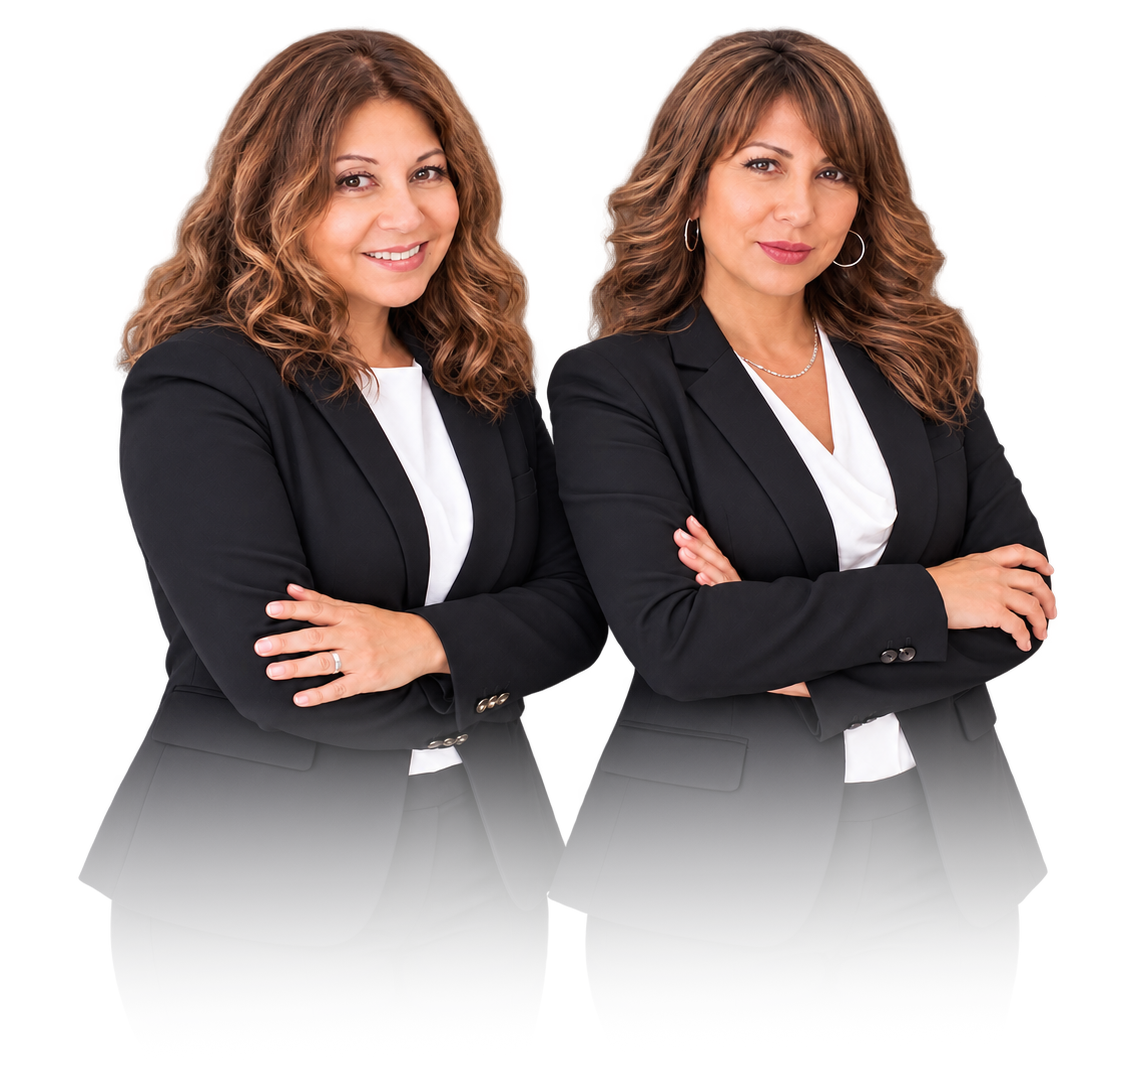
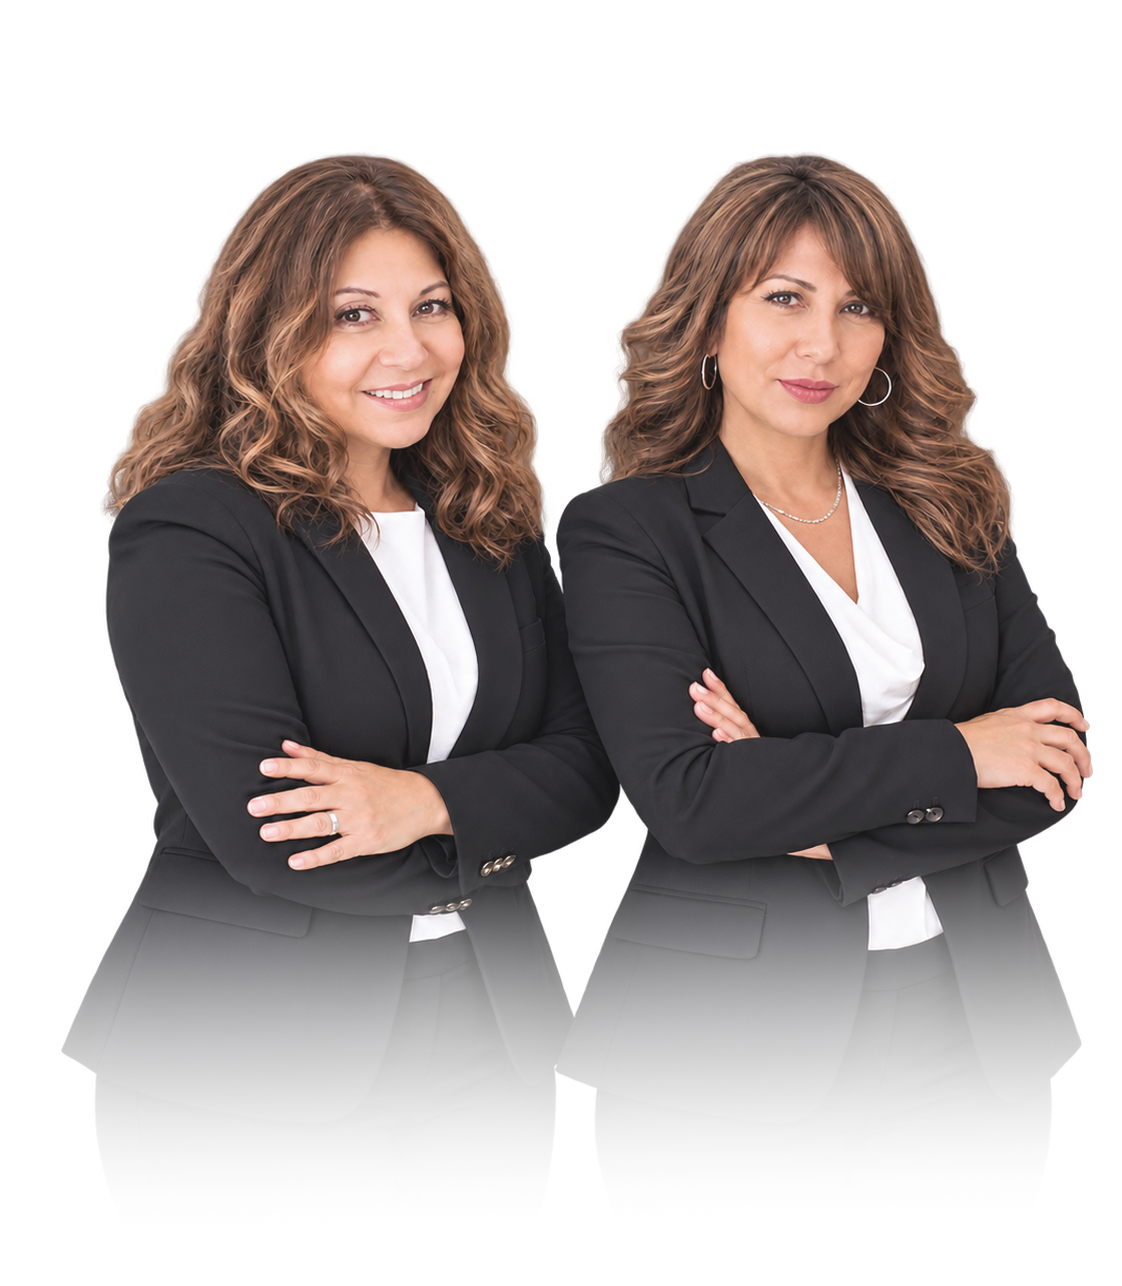
Actualizar perfil de Yracema Diaz en leer mas

Changed region(s): [[0.0936, 0.0, 0.9982, 0.8508], [0.0624, 0.7597, 0.1248, 0.8812], [0.4679, 0.8204, 0.4991, 0.8508]]

diff --git a/src/App.tsx b/src/App.tsx
@@ -29,7 +29,7 @@ const attorneys = [
     photo: attorneyYracema,
     role: 'Abogada · Soluciones patrimoniales',
     short: 'Mirada estratégica para ordenar, proteger y hacer valer sus bienes en Perú.',
-    bio: 'Acompaña a peruanos en Estados Unidos en saneamiento físico y legal de inmuebles, sucesiones intestadas y división y partición de bienes. Su trabajo une el orden legal con la tranquilidad familiar: traduce procesos complejos en pasos claros, plazos definidos y decisiones seguras.',
+    bio: 'Abogada titulada y colegiada, con más de 20 años de experiencia en derecho previsional y una sólida trayectoria en Derecho Civil, Familia, Administrativo y Municipal. Especialista en litigios vinculados a pensiones y sucesiones, cuenta además con formación en gestión pública, derecho penal, conciliación y arbitraje. Actualmente se desempeña como Gerente General del Estudio Jurídico La Gaceta del Jubilado, con presencia a nivel nacional y más de 10.000 casos ganados.',
   },
   {
     name: 'Marlene Romero',
